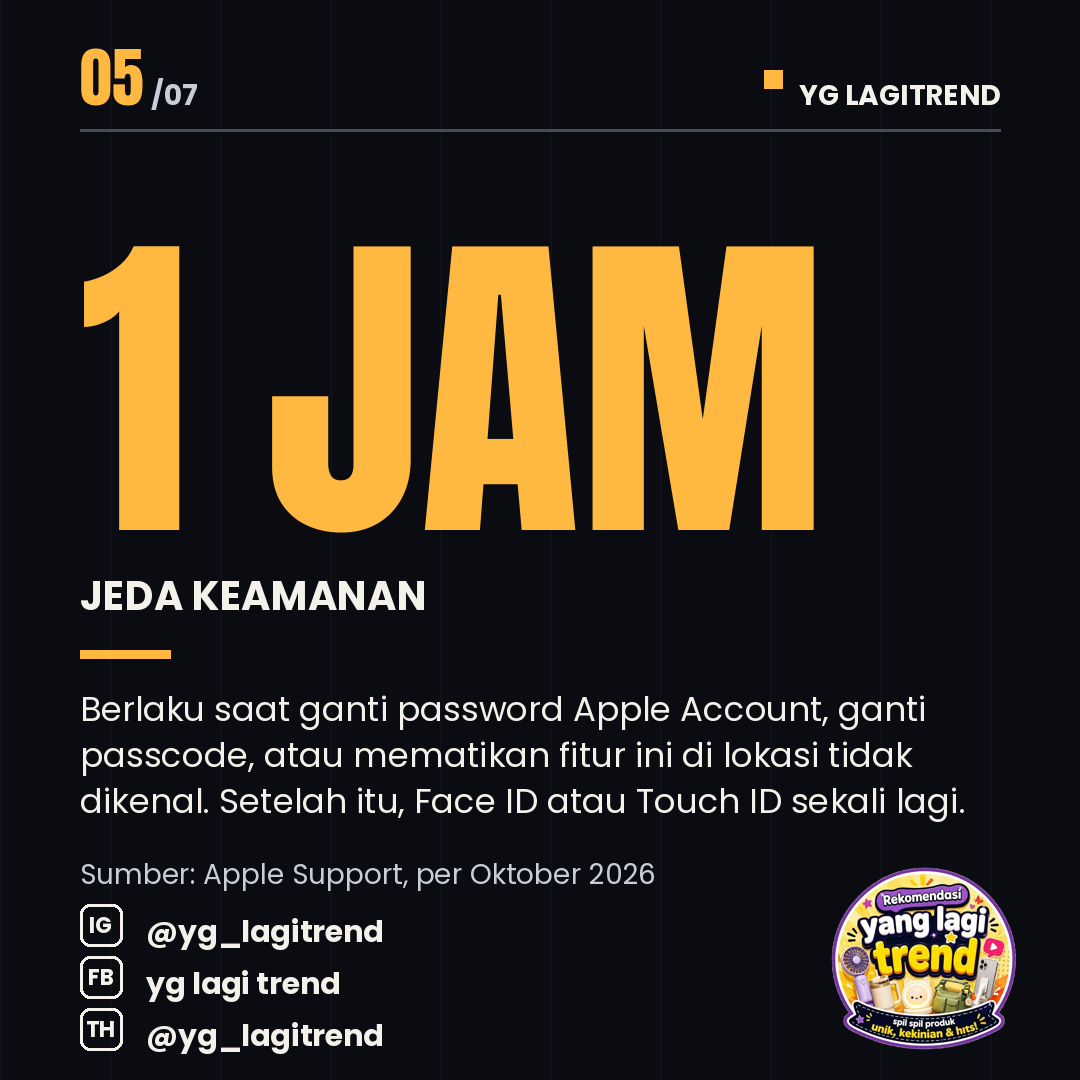
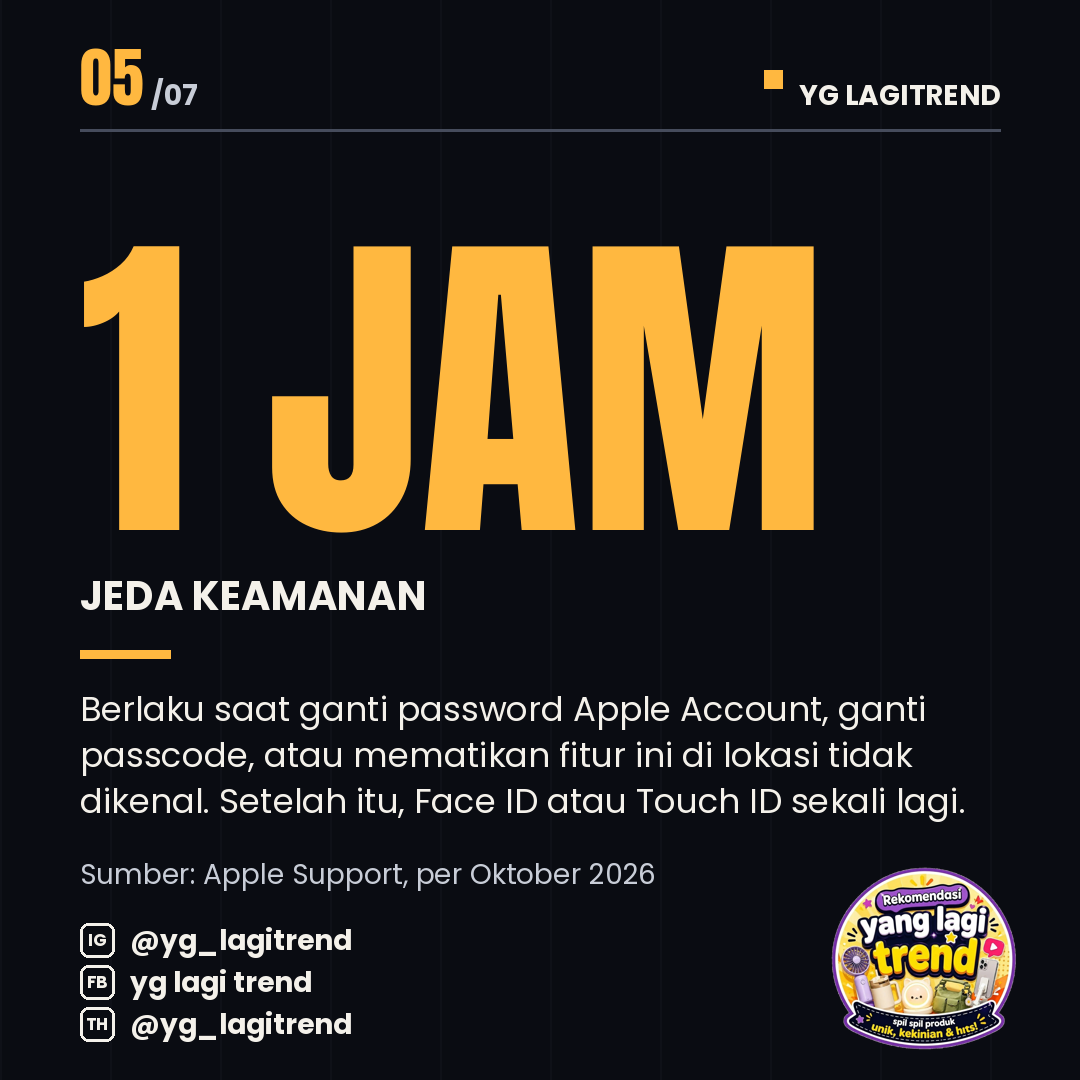
Identitas lebih kecil, ikon dan teks disejajarkan

Changed region(s): [[0.0611, 0.825, 0.3667, 0.9778]]

diff --git a/template/car_template_v2.py b/template/car_template_v2.py
@@ -42,16 +42,17 @@ def logo(im,cx,cy,r=95,onacc=False):
         lg=Image.open(LOGO).convert('RGBA');lg.thumbnail((2*r,2*r));im.paste(lg,(cx-lg.width//2,cy-lg.height//2),lg)
     else:
         d.ellipse([cx-r,cy-r,cx+r,cy+r],outline=INKD if onacc else ACC,width=5);d.text((cx,cy),"LOGO",font=F(PB,30),fill=INKD if onacc else ACC,anchor='mm')
-def identity(d,im,x,y0,dark=False,pitch=54):
-    col=INKD if dark else WHITE
+def identity(d,im,x,y0,dark=False,pitch=42):
+    # y0 = titik tengah baris pertama; ikon dan teks disejajarkan di tengah baris
+    col=INKD if dark else WHITE;S=34
     for k,(ic,txt) in enumerate(IDENT):
-        y=y0+k*pitch
+        cy=y0+k*pitch
         pth=ICONDIR+ic+'.png'
         if os.path.exists(pth):
-            g=Image.open(pth).convert('RGBA');g.thumbnail((40,40));im.paste(g,(x,y-36),g)
+            g=Image.open(pth).convert('RGBA');g.thumbnail((S,S));im.paste(g,(x+(S-g.width)//2,cy-g.height//2),g)
         else:
-            d.rounded_rectangle([x,y-38,x+42,y+4],radius=10,outline=col,width=3);d.text((x+21,y-17),{'ig':'IG','fb':'FB','th':'TH'}[ic],font=F(PB,22),fill=col,anchor='mm')
-        d.text((x+66,y),txt,font=F(PB,30),fill=col,anchor='ls')
+            d.rounded_rectangle([x,cy-S//2,x+S,cy+S//2],radius=8,outline=col,width=3);d.text((x+S//2,cy),{'ig':'IG','fb':'FB','th':'TH'}[ic],font=F(PB,17),fill=col,anchor='mm')
+        d.text((x+S+16,cy),txt,font=F(PB,28),fill=col,anchor='lm')
 def frame(i,n,src=None,panel=False):
     im=Image.new('RGB',(W,H),BG);d=ImageDraw.Draw(im)
     for x in range(0,W,110):d.line([x,0,x,H],fill=(15,17,24),width=2)
@@ -61,14 +62,14 @@ def frame(i,n,src=None,panel=False):
     d.line([80,130,W-80,130],fill=LN,width=3)
     if not panel:
         if src:d.text((80,884),src,font=F(PR,28),fill=MUT,anchor='ls')
-        identity(d,im,80,942,False,52);logo(im,925,960,95)
+        identity(d,im,80,940,False,42);logo(im,925,960,95)
     return im,d
 def hook(i,n,title,hl,body):
     im,d=frame(i,n,panel=True);y=170;tf=F(AN,112)
     for l in wrap(d,title,tf,920):d.text((80,y),l,font=tf,fill=WHITE);y+=122
     y+=26
     hw=d.textlength(hl,font=tf);d.rectangle([72,y+14,72+hw+36,y+150],fill=ACC);d.text((90,y+10),hl,font=tf,fill=INKD)
-    d.rectangle([0,650,W,H],fill=ACC);lines(d,80,682,body,F(PB,36),INKD,780,50);identity(d,im,80,908,True,52)
+    d.rectangle([0,650,W,H],fill=ACC);lines(d,80,682,body,F(PB,36),INKD,780,50);identity(d,im,80,925,True,42)
     logo(im,915,870,105,True);return im
 def content(i,n,title,intro,items,src,numbered=True):
     im,d=frame(i,n,src);y=175;tf=F(AN,92)
